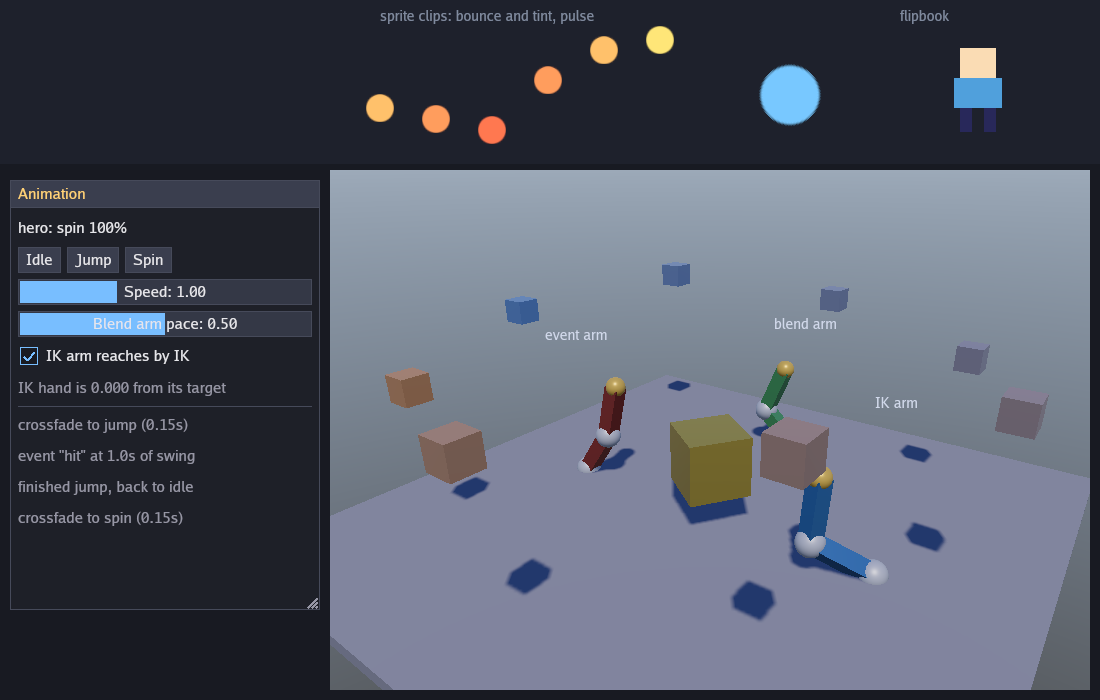
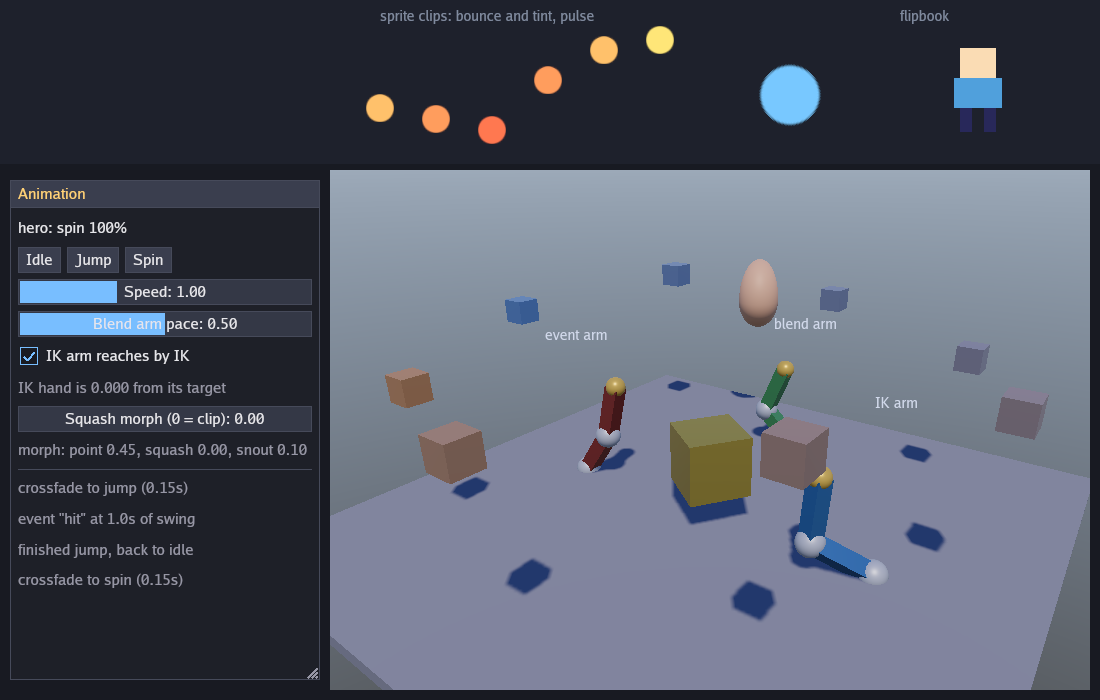
Add morph-target sphere to animation, declutter solar labels
The animation sphere has point, squash and snout targets blended in the
vertex shader from a clip's weights, with a slider override. Solar names
moons only for the selected planet and places planet names below the
body so labels no longer overlap.

diff --git a/examples/animation/main.rs b/examples/animation/main.rs
@@ -14,6 +14,7 @@ mod arms;
 mod clips;
 #[path = "../common/mod.rs"]
 mod common;
+mod face;
 
 use std::sync::Arc;
 
@@ -111,6 +112,7 @@ struct Anim {
     schedule: Schedule,
     hero: Entity,
     arms: Arms,
+    face: face::Face,
     cube: Mesh,
     ball: Mesh,
     dot: Texture,
@@ -264,13 +266,14 @@ impl Game for Anim {
             schedule,
             hero,
             arms: Arms::new(),
+            face: face::Face::new(&ctx.gfx)?,
             cube: Mesh::new(&ctx.gfx, &MeshData::cube(1.0))?,
             ball: Mesh::new(&ctx.gfx, &MeshData::sphere(1.0, 16, 32))?,
             dot,
             sheet,
             font: ctx.gfx.default_font(),
             orbit,
-            panel: Rect::new(10.0, 180.0, 310.0, 430.0),
+            panel: Rect::new(10.0, 180.0, 310.0, 500.0),
             speed: 1.0,
             clock: 0.0,
             autoplay: std::env::args().any(|a| a == "--autoplay"),
@@ -298,6 +301,7 @@ impl Game for Anim {
         self.world.insert_resource(DeltaTime(dt));
         self.schedule.run(&mut self.world);
         ctx.record_schedule(&self.schedule);
+        self.face.update(dt);
         for line in self.arms.update(dt, self.clock) {
             Log::say(&mut self.world, line);
         }
@@ -345,6 +349,7 @@ impl Game for Anim {
 
         let cam = self.orbit.camera();
         let (world, arms, cube, ball) = (&self.world, &mut self.arms, &self.cube, &self.ball);
+        let face = &self.face;
         ctx.gfx.scene(&cam, |s| {
             s.set_sun(
                 DirectionalLight::new(vec3(-0.4, -1.0, -0.5), Color::rgb(1.0, 0.96, 0.9), 3.0)
@@ -369,6 +374,7 @@ impl Game for Anim {
                 s.draw(cube, &gold, *t);
             }
             arms.draw(s, cube, ball);
+            face.draw(s, vec3(-1.6, 2.1, -4.0), 0.55);
         });
 
         let names = ["event arm", "IK arm", "blend arm"];
@@ -415,6 +421,16 @@ impl Anim {
             _ => "IK off: the clip alone moves the arm".to_owned(),
         };
         let mut want: Option<usize> = None;
+        let morph = format!(
+            "morph: {}",
+            face::TARGETS
+                .iter()
+                .zip(self.face.weights)
+                .map(|(n, w)| format!("{n} {w:.2}"))
+                .collect::<Vec<_>>()
+                .join(", ")
+        );
+        let mut squash = self.face.squash.unwrap_or(0.0);
         let (speed, pace, ik_on, panel) = (
             &mut self.speed,
             &mut self.arms.pace,
@@ -435,12 +451,15 @@ impl Anim {
                 f.slider("Blend arm pace", pace, 0.0..=1.0);
                 f.checkbox("IK arm reaches by IK", ik_on);
                 f.label_dim(&ik);
+                f.slider("Squash morph (0 = clip)", &mut squash, 0.0..=1.0);
+                f.label_dim(&morph);
                 f.separator();
                 for line in &log {
                     f.label_dim(line);
                 }
             });
         });
+        self.face.squash = (squash > 0.0).then_some(squash);
         let pick = want.and_then(|i| match i {
             0 => self.hero_clip(|c| &c.idle).map(|c| (c, 0.3)),
             1 => self.hero_clip(|c| &c.jump).map(|c| (c, 0.15)),

diff --git a/examples/animation/face.rs b/examples/animation/face.rs
@@ -1,0 +1,87 @@
+//! A sphere with three morph targets, blended in the vertex shader. A clip
+//! drives the weights through a `Player`; changing them costs no upload.
+
+use std::sync::Arc;
+
+use yowie::anim::{Channel, Clip, Curve, LoopMode, Player, Value};
+use yowie::gfx::Graphics;
+use yowie::gfx::scene::{Material, Mesh, MeshData, MorphTarget, Scene};
+use yowie::{Color, Mat4, Vec3, vec3};
+
+/// Names of the targets, in weight order.
+pub const TARGETS: [&str; 3] = ["point", "squash", "snout"];
+
+/// The mesh, its clip player and the weights last read from it.
+pub struct Face {
+    mesh: Mesh,
+    player: Player,
+    /// Current weights, one per target.
+    pub weights: [f32; 3],
+    /// Overrides the clip's weight for the second target when set.
+    pub squash: Option<f32>,
+}
+
+fn target(mesh: &MeshData, delta: impl Fn(Vec3) -> Vec3) -> MorphTarget {
+    MorphTarget {
+        positions: mesh.vertices.iter().map(|v| delta(v.position)).collect(),
+        normals: Vec::new(),
+    }
+}
+
+/// The weights over four seconds: the crown rises into a point while the
+/// snout breathes.
+fn clip() -> Arc<Clip> {
+    let curve = |keys: [(f32, f32); 3]| Curve::linear(keys);
+    Arc::new(Clip::new("face").with_mode(LoopMode::PingPong).with_track(
+        "weights",
+        Channel::Weights(vec![
+            curve([(0.0, 0.0), (2.0, 0.45), (4.0, 0.0)]),
+            curve([(0.0, 0.3), (2.0, 0.0), (4.0, 0.3)]),
+            curve([(0.0, 0.1), (1.0, 0.8), (2.0, 0.1)]),
+        ]),
+    ))
+}
+
+impl Face {
+    /// Builds the sphere and its three targets and starts the clip.
+    pub fn new(gfx: &Graphics) -> yowie::GameResult<Self> {
+        let data = MeshData::sphere(1.0, 20, 40);
+        let targets = [
+            target(&data, |p| vec3(-p.x * 0.6, p.y.max(0.0) * 1.2, -p.z * 0.6)),
+            target(&data, |p| vec3(p.x * 0.5, -p.y * 0.45, p.z * 0.5)),
+            target(&data, |p| vec3(0.0, 0.0, p.z.max(0.0) * 0.9)),
+        ];
+        let mut player = Player::new();
+        player.play(clip());
+        Ok(Face {
+            mesh: Mesh::with_morph_targets(gfx, &data, &targets)?,
+            player,
+            weights: [0.0; 3],
+            squash: None,
+        })
+    }
+
+    /// Advances the clip by `dt` seconds and reads its weights.
+    pub fn update(&mut self, dt: f32) {
+        self.player.advance(dt);
+        let mut w = self.weights;
+        self.player.evaluate(|_, v| {
+            if let Value::Weights(list) = v {
+                for (slot, x) in w.iter_mut().zip(list) {
+                    *slot = x;
+                }
+            }
+        });
+        if let Some(s) = self.squash {
+            w[1] = s;
+        }
+        self.weights = w;
+    }
+
+    /// Records the sphere at `at`.
+    pub fn draw(&self, s: &mut Scene<'_>, at: Vec3, radius: f32) {
+        let skin = Material::color(Color::rgb8(230, 180, 150), 0.0, 0.55);
+        let place = Mat4::from_translation(at) * Mat4::from_scale(Vec3::splat(radius));
+        s.draw_morphed(&self.mesh, &skin, place, &self.weights);
+    }
+}

diff --git a/examples/solar/view.rs b/examples/solar/view.rs
@@ -59,10 +59,13 @@ pub fn labels(
 ) {
     let view = ctx.gfx.view_size();
     for d in bodies {
-        let moon = sim
-            .world
-            .get::<&Parent>(d.entity)
-            .is_ok_and(|p| p.0 != sim.sun);
+        let parent = sim.world.get::<&Parent>(d.entity).ok().map(|p| p.0);
+        let moon = parent.is_some_and(|p| p != sim.sun);
+        // Moons crowd their planet, so a moon is named only while it or its
+        // planet is selected.
+        if moon && d.entity != selected && parent != Some(selected) {
+            continue;
+        }
         let at = d.matrix.w_axis.truncate();
         let Some(p) = cam.world_to_screen(at, view) else {
             continue;
@@ -73,15 +76,14 @@ pub fn labels(
             (false, false) => (14.0, common::TEXT),
         };
         let name = sim.name(d.entity);
-        let offset = d.body.radius * 14.0 + 6.0;
-        common::label(
-            ctx,
-            font,
-            &name,
-            p + vec2(offset.min(24.0), -8.0),
-            size,
-            color,
-        );
+        // Planet names sit below the body and moon names above and beside
+        // their moon, so a planet's name and its moons' never meet.
+        let offset = if moon {
+            vec2(8.0, -20.0)
+        } else {
+            vec2(-12.0, 14.0 + (d.body.radius - 0.5).max(0.0) * 20.0)
+        };
+        common::label(ctx, font, &name, p + offset, size, color);
     }
 }
 
